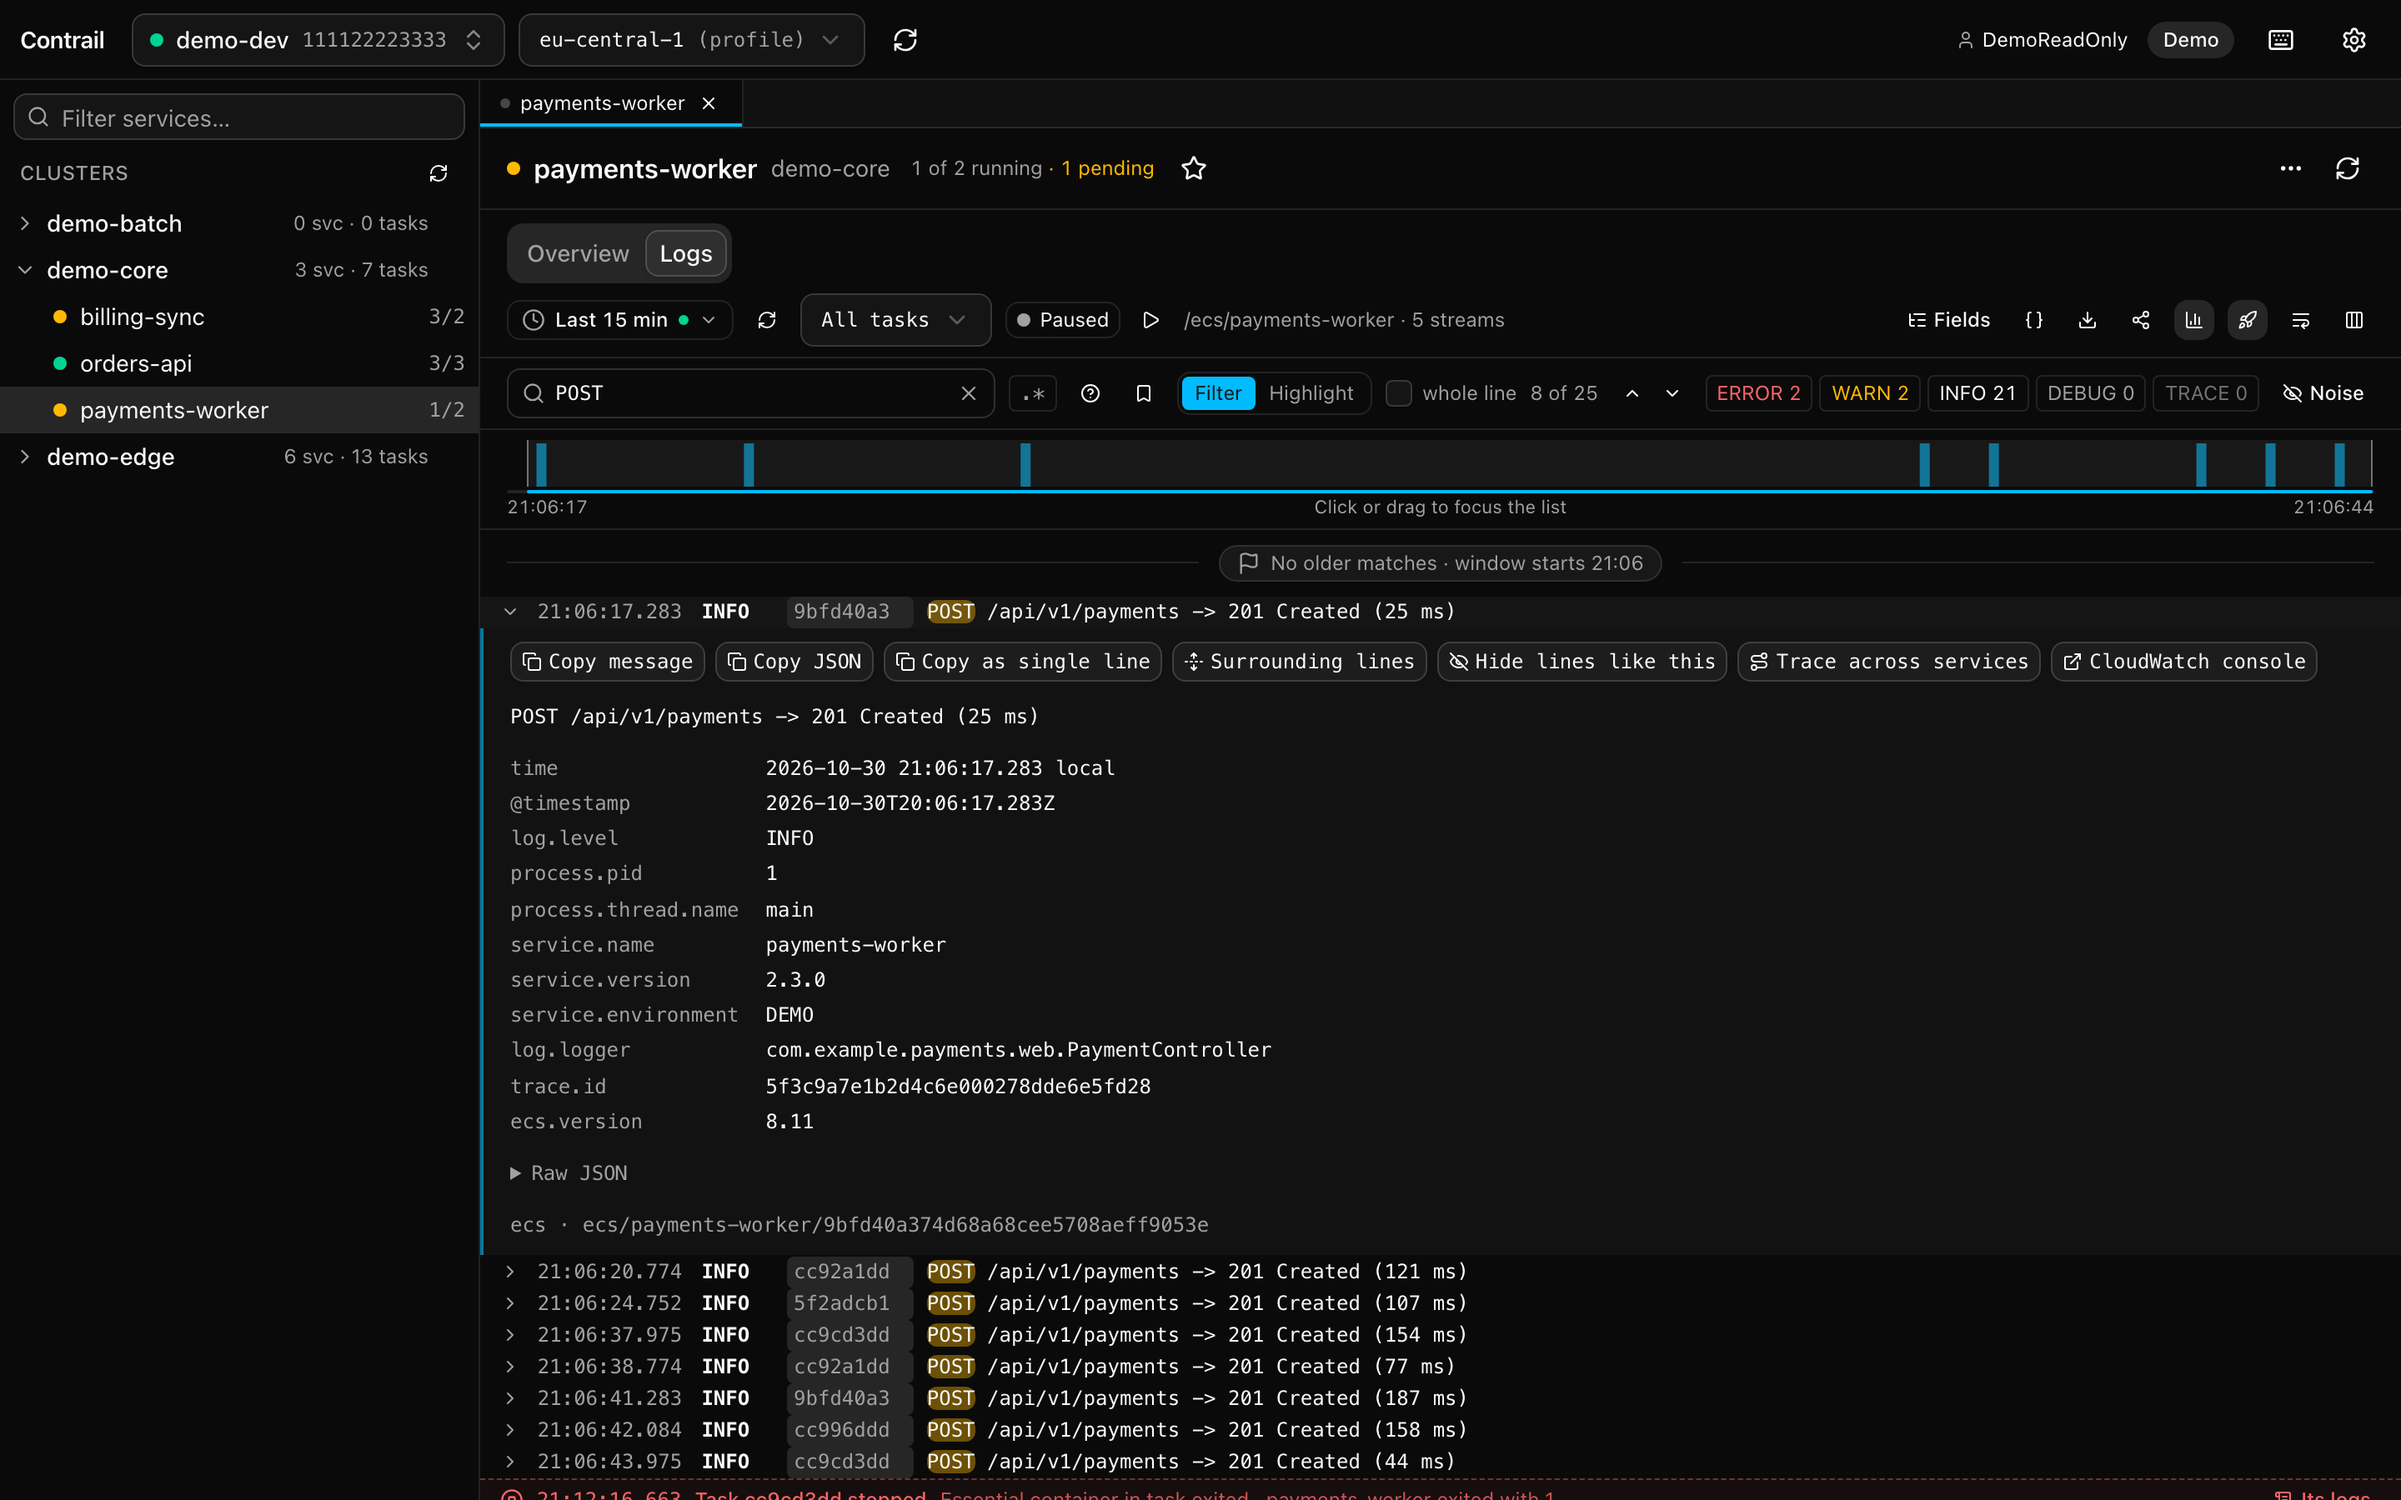
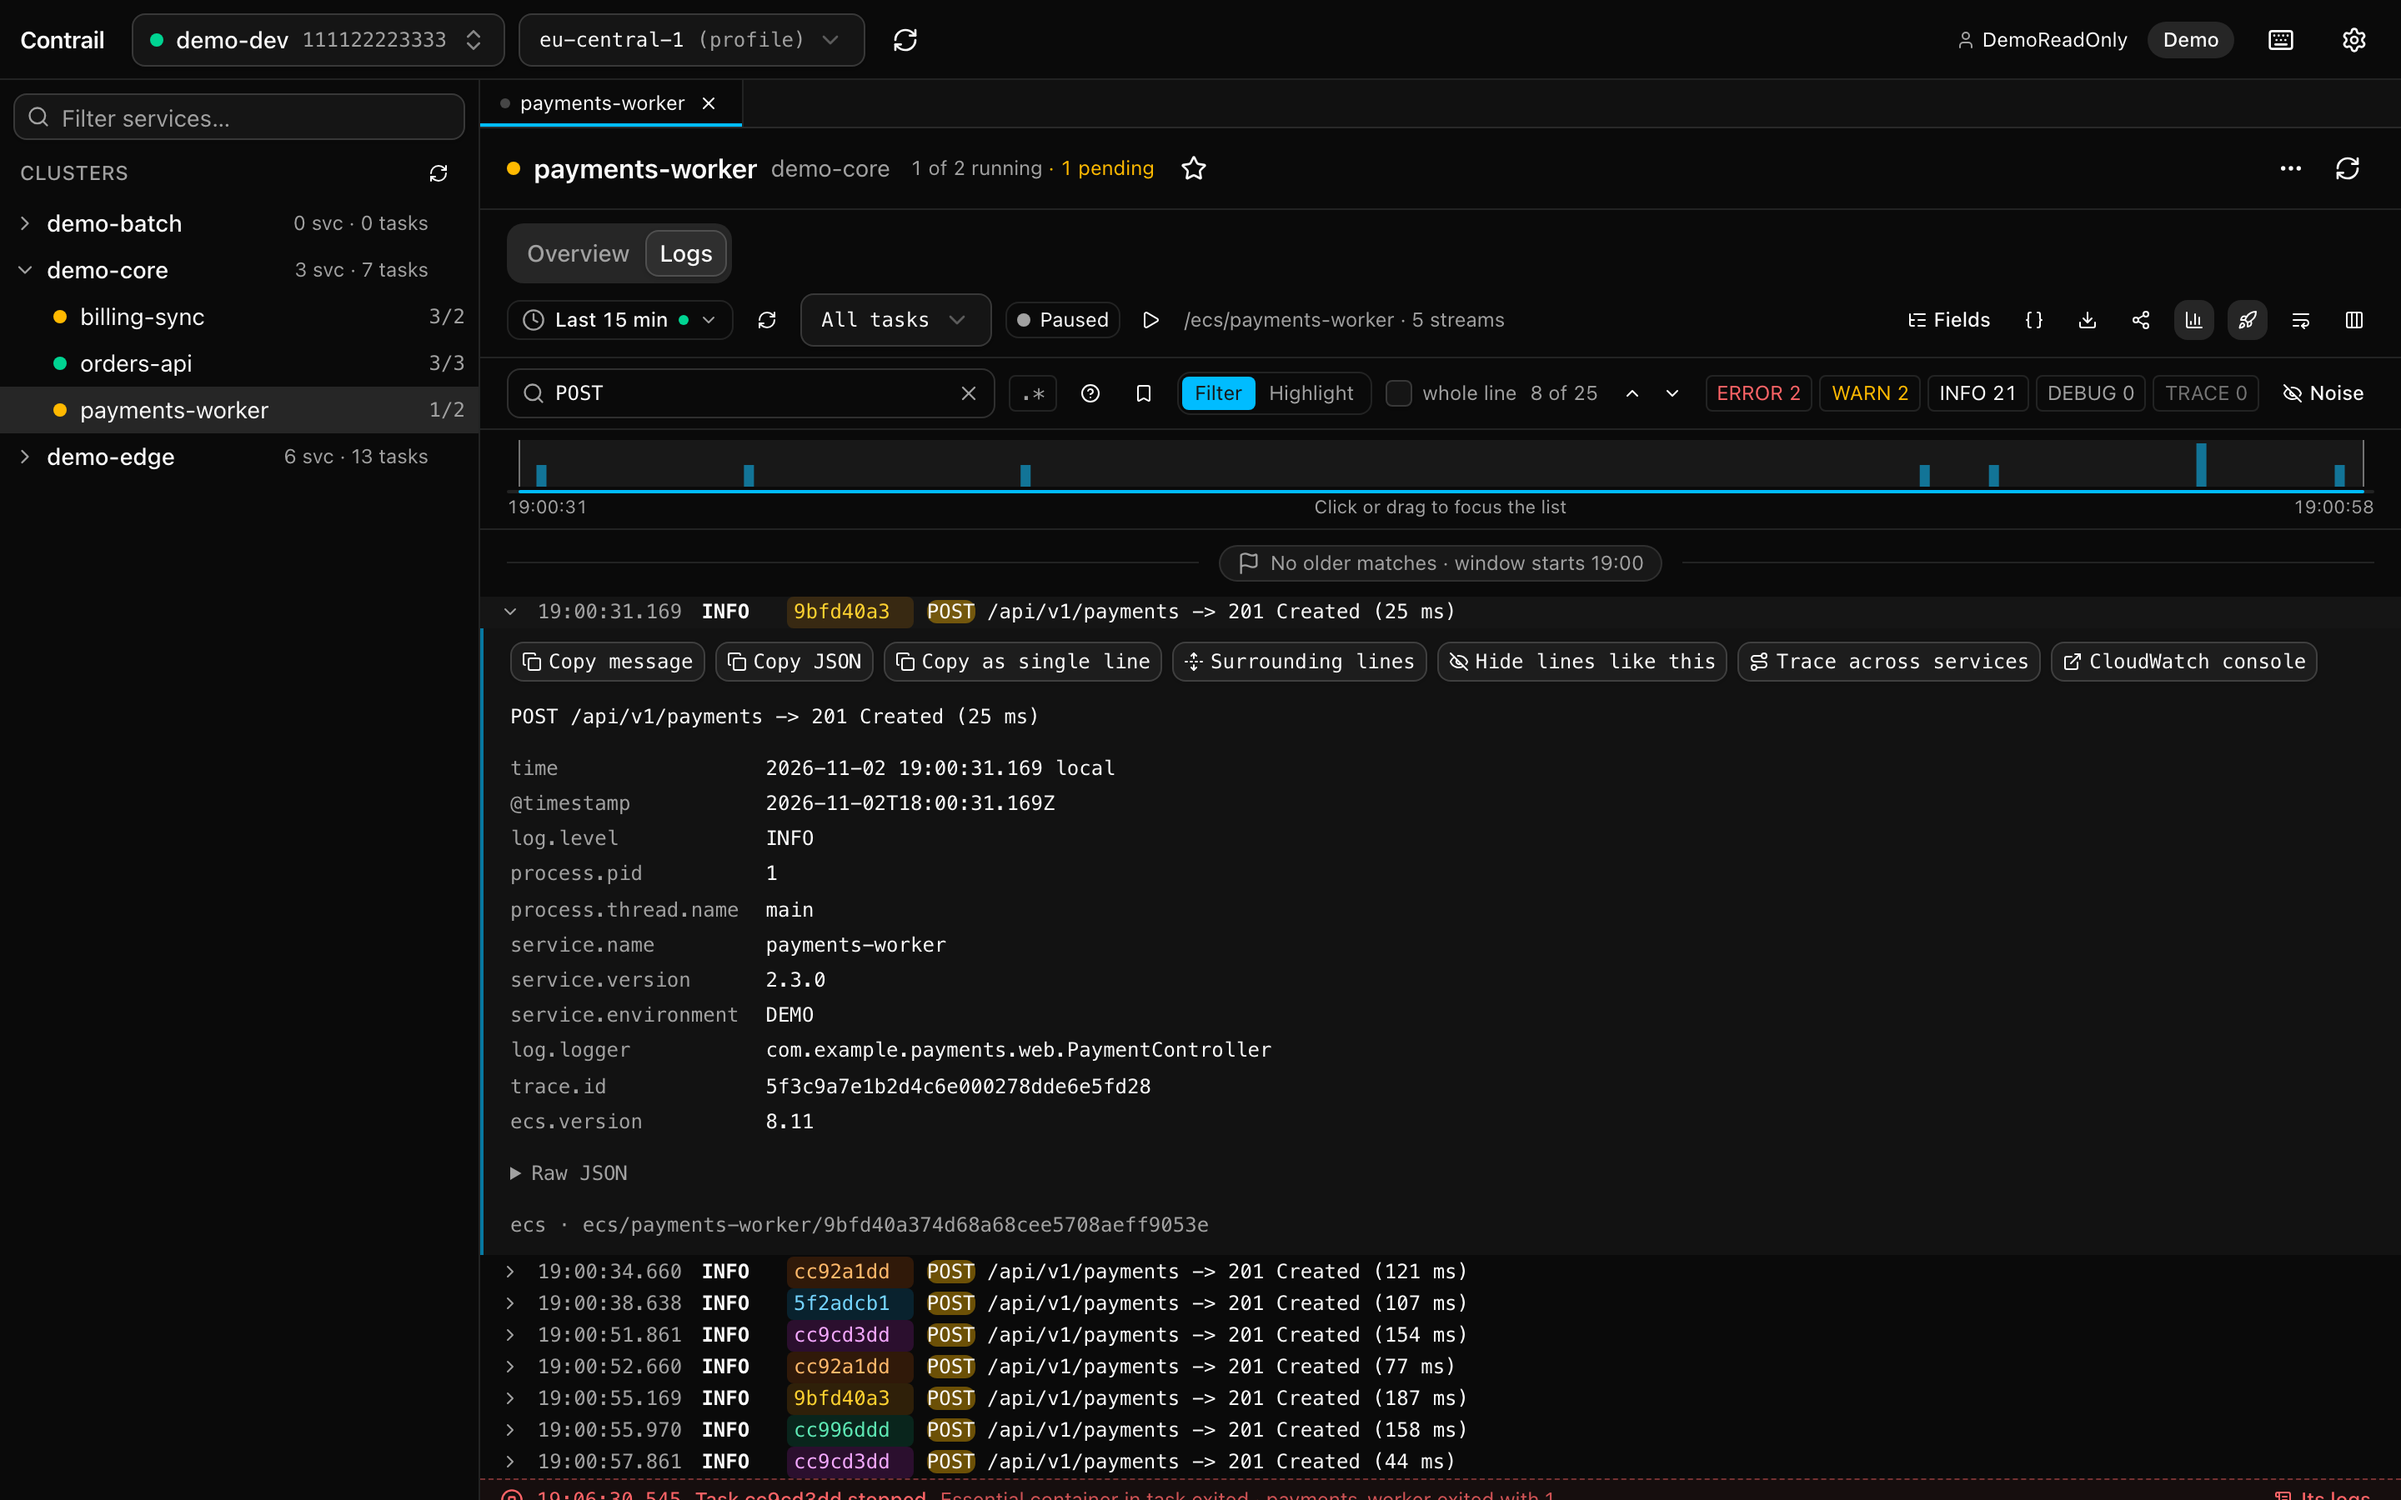
docs: line context menu, Ctrl+Home/End, task colours, field search
Also refreshes the site screenshots, which now show the coloured task
tags.

diff --git a/docs/user-guide.md b/docs/user-guide.md
@@ -48,7 +48,9 @@ page has the details.
   CloudWatch split into one event per line are joined again. **Field mapping** (log toolbar) handles JSON logs with
   other field names.
 - The list scrolls smoothly through up to 100,000 lines, starts at the newest, and expands a line into its fields,
-  raw JSON, embedded JSON and stack trace (with copy buttons). The task picker in the toolbar (or a task's **Logs**
+  raw JSON, embedded JSON and stack trace (with copy buttons); right-click a line for the same actions without
+  expanding it. **Ctrl+Home** / **Ctrl+End** (⌘↑ / ⌘↓ on macOS) jump to the top or bottom of the list. With
+  several tasks, each task's short ID has its own colour. The task picker in the toolbar (or a task's **Logs**
   button) shows only one task; the columns button adds logger, thread or correlation/trace ID. Logger names are
   shortened like Spring Boot does (`c.e.orders.OrderService`); hover for the full name. The wrap button (or **W**)
   wraps long messages instead of cutting them off. Times show the date too (`10-26 14:03:22.123`) on every row once
@@ -61,6 +63,7 @@ page has the details.
   are, so you see how much lies before and after while scrolling. Hover a bar for its time and counts; click a bar, or drag across bars, to focus the list on
   that part of the window. The time window and the loaded events stay as they are: the timeline says which part is
   focused, and **Show all** under it (or the × on the focused part) brings back the whole window instantly.
+  While the view follows live, the timeline reaches up to now: minutes without a new line show as empty bars.
 - **Service events** (the rocket button in the toolbar hides them): deployments starting and finishing, stopped
   tasks with their stop reason and exit codes, and the service's events ("has started 1 tasks", placement
   problems; not the "steady state" ones) show as lines between the log lines at the time they happened, and on
@@ -86,7 +89,8 @@ page has the details.
 
 ## Search
 
-- Search the loaded logs: `timeout level>=WARN trace.id:abc123 -healthcheck`, regular expressions, field globs and
+- Search the loaded logs (plain words look in the message and every field's value, e.g. a trace ID or an API
+  key): `timeout level>=WARN trace.id:abc123 -healthcheck`, regular expressions, field globs and
   comparisons (or one regular expression with `.*`), as a filter or highlighted with next/previous (Enter, F3).
   See [Search syntax](query-syntax.md).
 - **Earlier searches:** ↑ / ↓ in the search box step through the searches run before, this service's first, with
